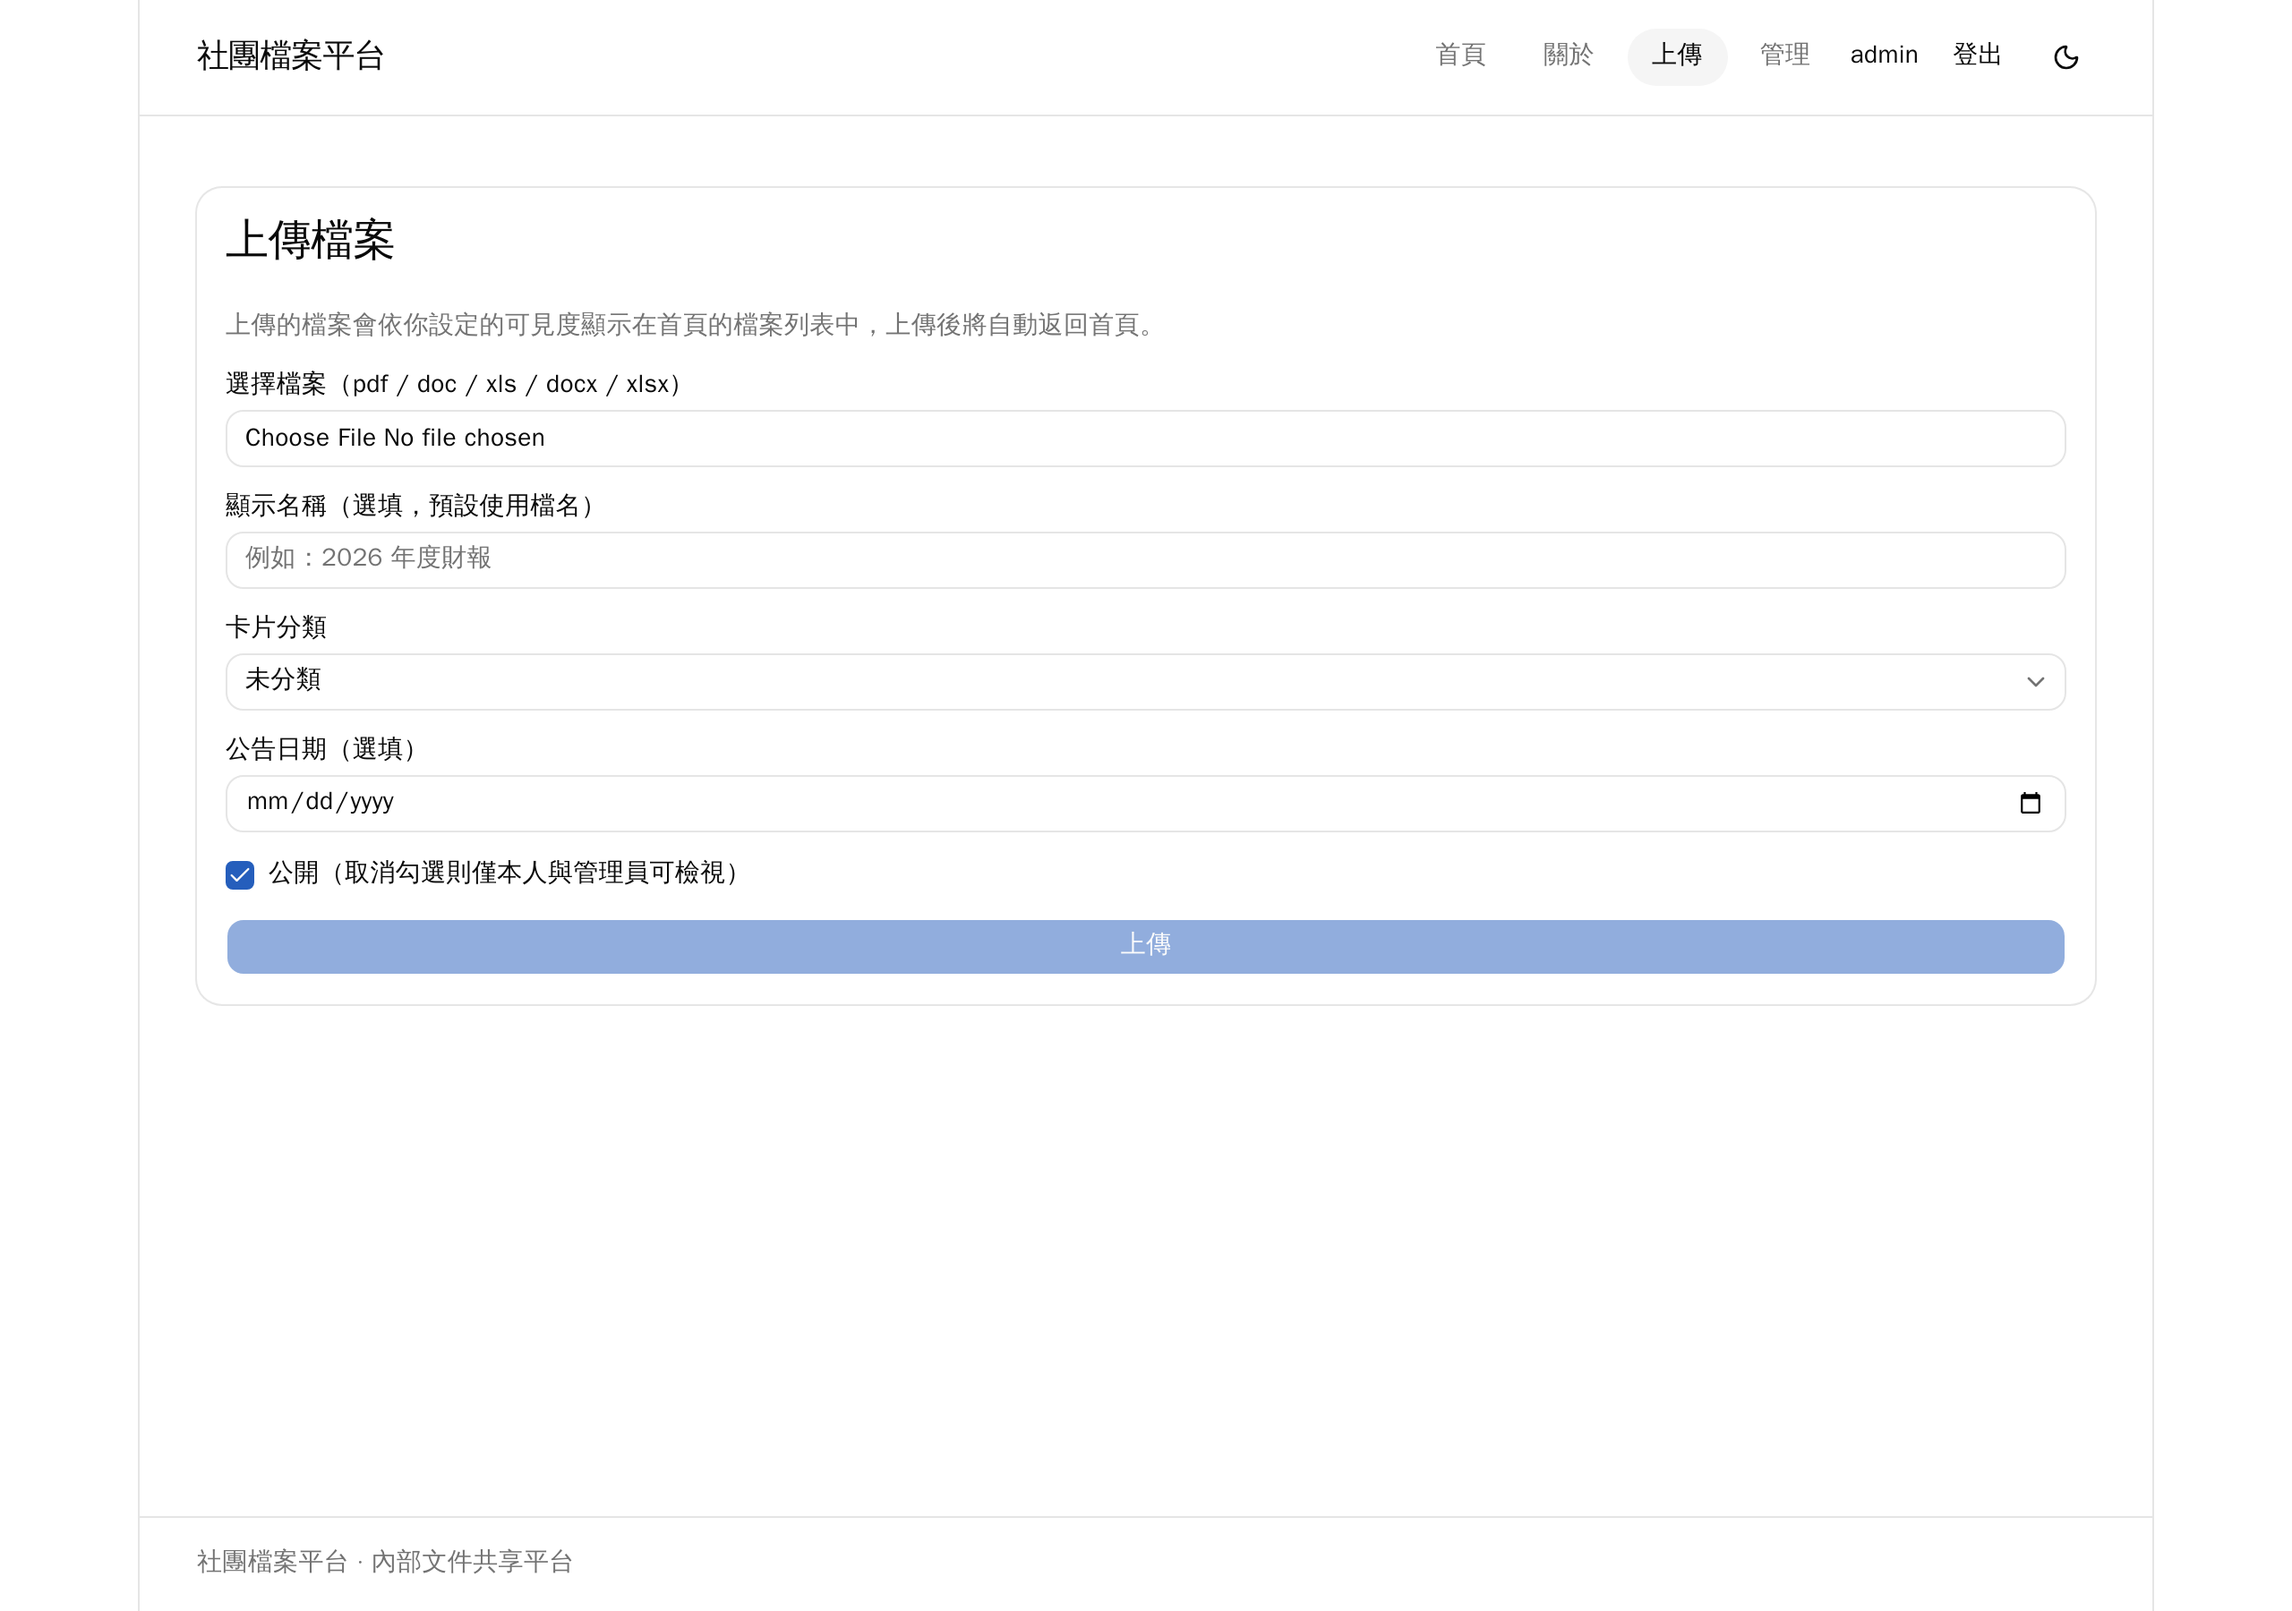
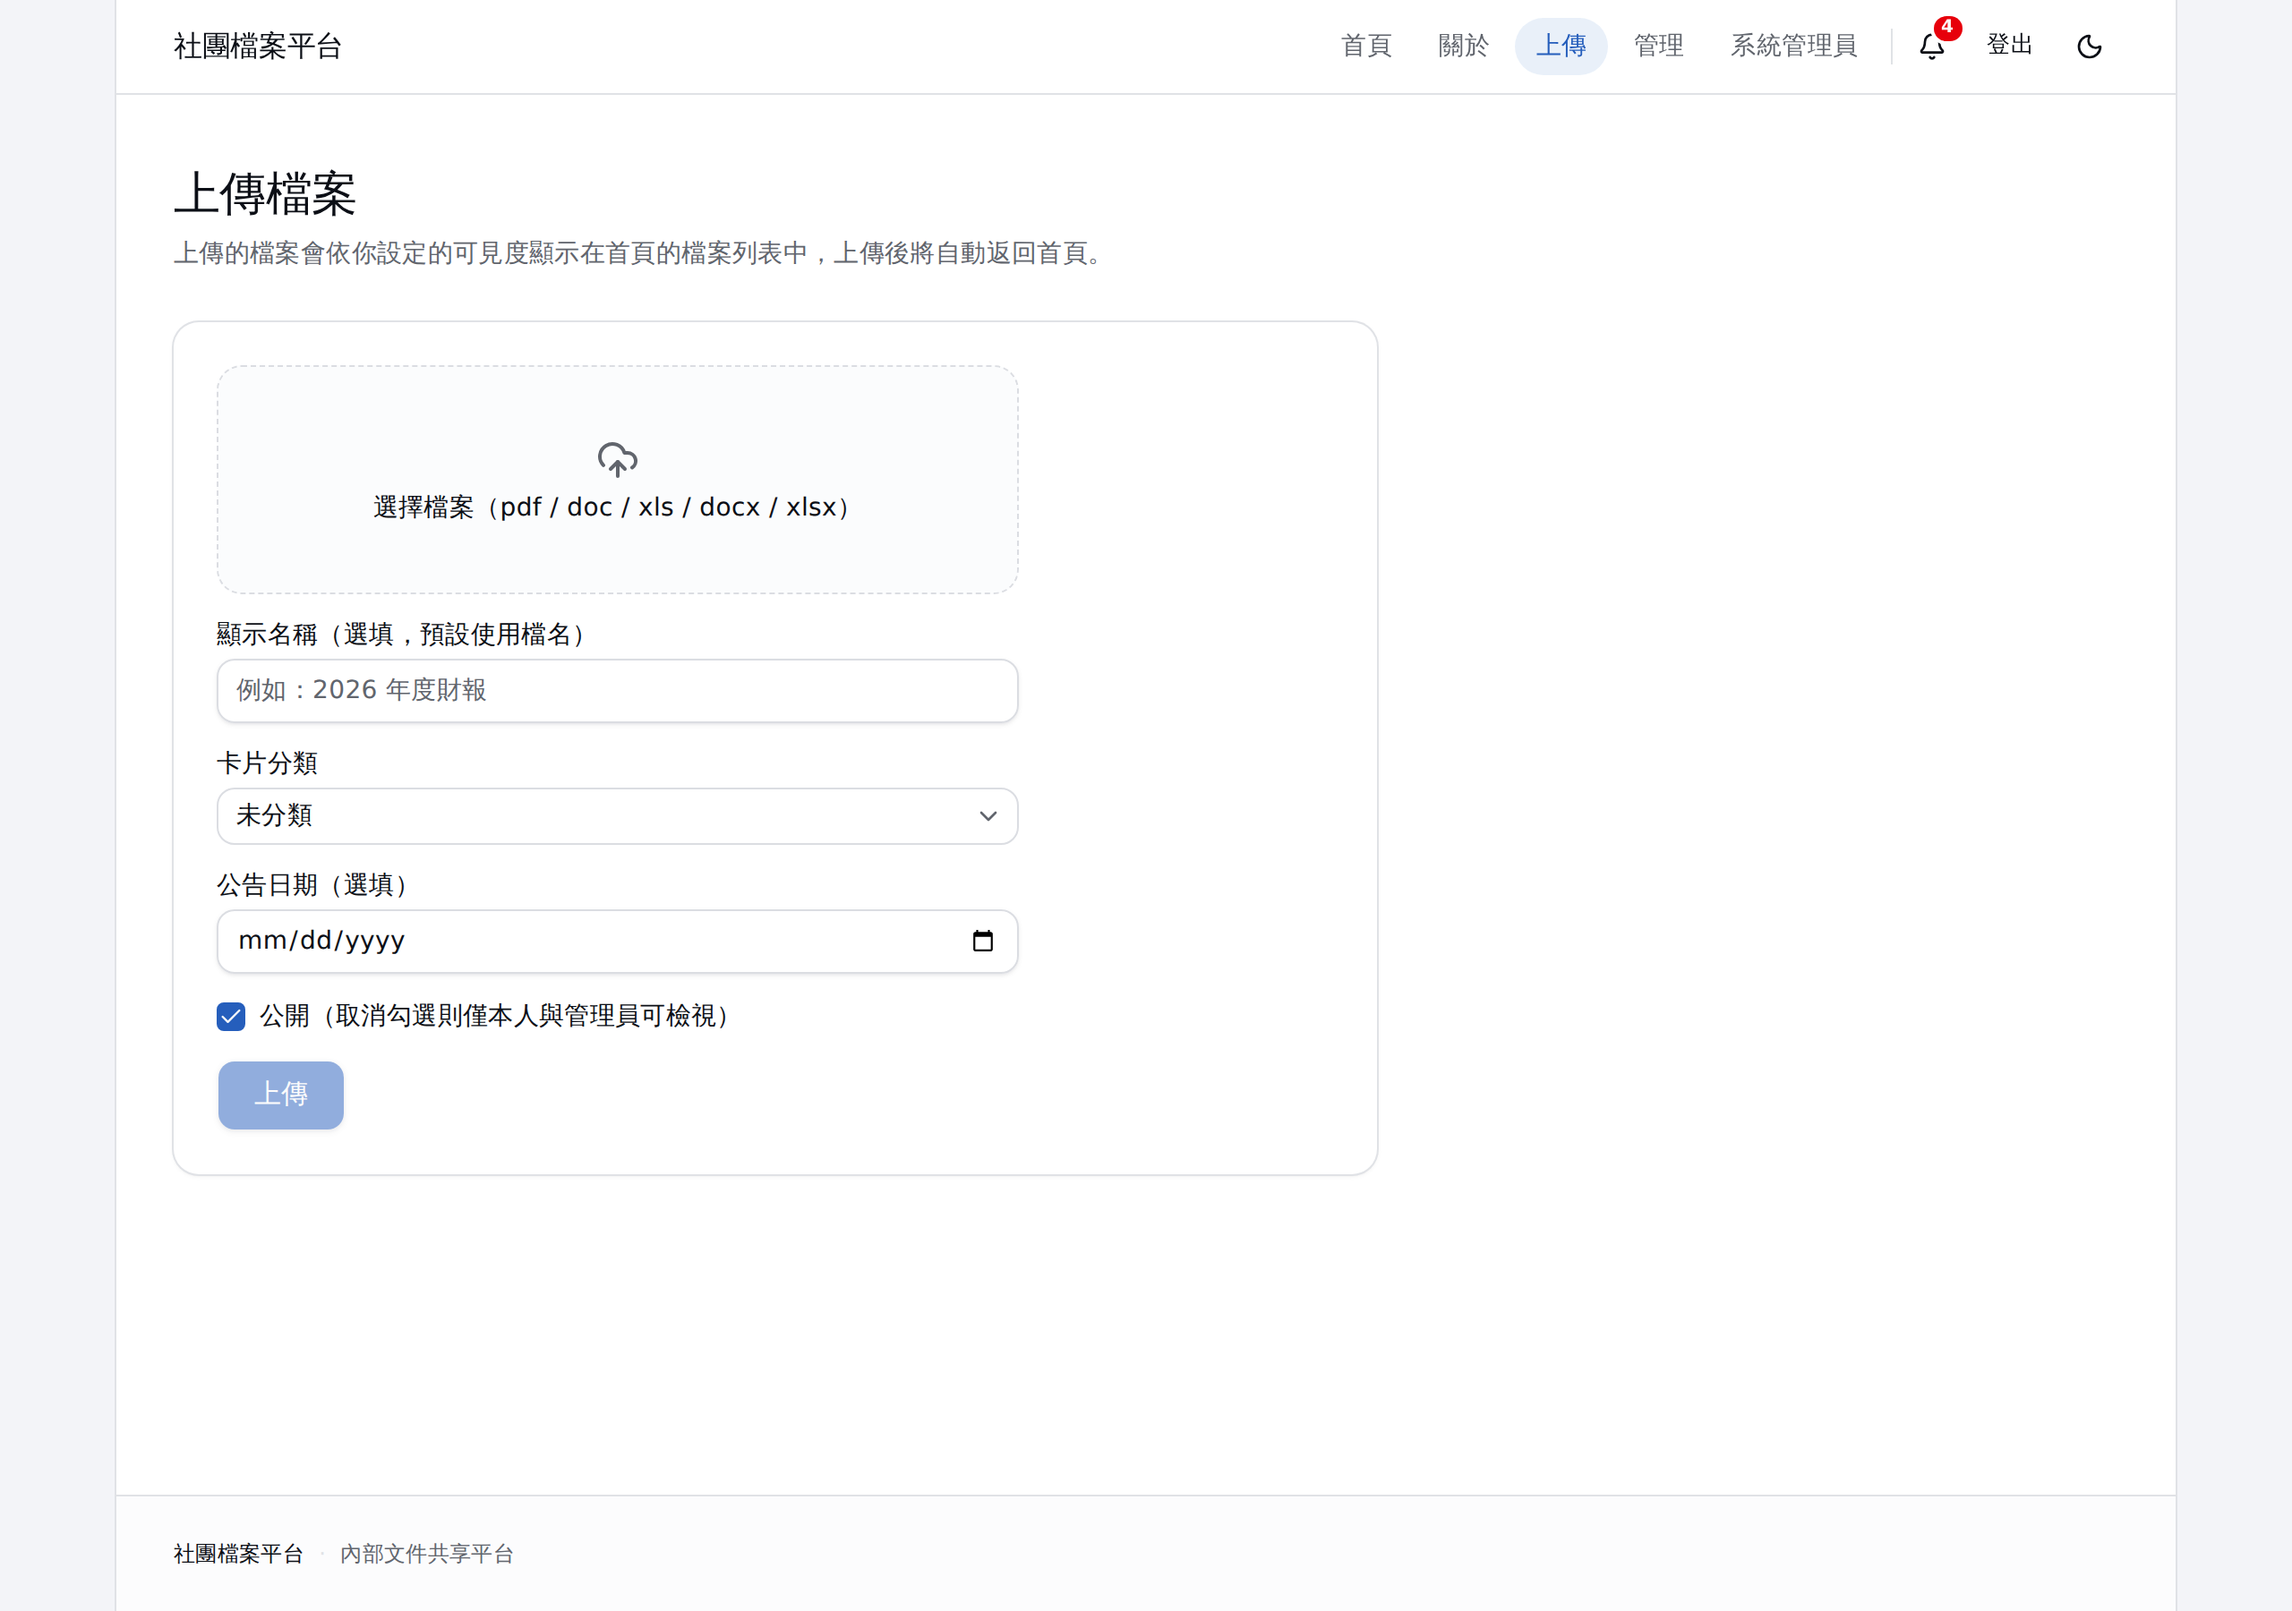
更新 README 補上深色模式與介面設計說明，並重拍全站截圖 (#97)
README 的功能說明停在 PR #91，之後 #93 的全站視覺改版沒有反映進來：深色／明亮模式切換
（早在 theme toggle 上線時就有）從未被寫進「專案特點」，#93 帶進來的設計 token、骨架與空
狀態、toast 提示同樣沒有著墨，技術棧也漏了 sonner 與 tw-animate-css。

docs/screenshots/ 的圖全部拍於 #93 改版之前，畫面已與現況不符；通知中心那格更是從加入表格
起就只有「待補圖」的文字佔位，`/admin` 的「首頁特色」分頁（#90）也一直沒有截圖。這次以乾淨
的展示資料重拍 14 張（含新增的 admin-highlights 與 notifications），維持原本 2560×1800 的
規格。

順帶修正「頁面與權限」的兩處描述：檔案的公開／私密切換、版本與刪除實際上是在首頁的檔案列表
操作，/upload 只負責上傳。

diff --git a/README.md b/README.md
@@ -21,10 +21,8 @@
 | ![管理後台站台設定](docs/screenshots/admin-site-settings.png) | ![管理後台 LDAP 設定](docs/screenshots/admin-ldap-settings.png) |
 | **管理後台－Email SMTP 設定**                          | **個人資料頁**                                           |
 | ![管理後台 Email SMTP 設定](docs/screenshots/admin-smtp-settings.png) | ![個人資料頁](docs/screenshots/profile.png) |
-| **通知中心**                                           |                                                          |
-| （待補圖：`docs/screenshots/notifications.png`）        |                                                          |
-
-> 通知中心的截圖待補（需要帳號實際收到通知才拍得出未讀徽章與「全部標記已讀」）；補上 png 到 `docs/screenshots/` 後改成圖片連結即可。
+| **管理後台－首頁特色**                                 | **通知中心**                                             |
+| ![管理後台首頁特色](docs/screenshots/admin-highlights.png) | ![通知中心](docs/screenshots/notifications.png)       |
 
 ## 🌟 專案特點
 
@@ -42,6 +40,8 @@
 *   **Email SMTP 設定**：寄送重設密碼信、上傳通知信所使用的 SMTP 伺服器、帳密等設定，可直接在管理後台網頁上設定，無需改動伺服器環境變數；未啟用或未設定時，信件內容僅會寫入後端日誌，方便本機開發測試。
 *   **站台外觀設定**：站台名稱、瀏覽器分頁標題、首頁歡迎卡片的主標題與副標說明文字，以及網站圖示（favicon）與首頁歡迎圖片，皆可直接在管理後台的「站台設定」中修改；圖片支援 SVG / PNG / JPG / GIF / WebP / ICO 上傳，未設定時使用內建預設值。
 *   **首頁特色介紹**：首頁歡迎區塊下方的特色卡片（圖示、標題、說明文字、排序、是否顯示）可在管理後台的「首頁特色」中自行新增、編輯與刪除；圖示由下拉選單挑選，卡片張數不固定，首頁版面會依張數自動調整。
+*   **深色／明亮模式**：右上角可一鍵切換深色與明亮外觀，選擇會記在瀏覽器本機（`localStorage` 的 `theme`）；第一次造訪時跟隨作業系統的深色偏好（`prefers-color-scheme`），且在頁面首次繪製之前就套用主題，深色使用者不會先看到一片白再跳暗。
+*   **一致的介面設計**：全站的色彩、圓角與間距統一由設計 token 定義（明亮／深色各一套，見 `frontend/src/index.css`），資料載入中顯示骨架（skeleton）佔位、沒有資料時顯示統一的空狀態說明，操作成功或失敗則以畫面右下角的浮動訊息（toast）提示；版面與字級會依螢幕寬度自動調整。
 *   **檔案儲存**：檔案實體存放於伺服器本機檔案系統，資料庫僅儲存檔案 metadata。
 *   **檔案大小限制**：上傳檔案設有單檔大小上限，避免磁碟空間被過大檔案佔滿。上限可由管理員在管理後台的「站台設定」中調整（1 到 512 MB），調整後立即生效，上傳頁面也會同步顯示目前上限並在選檔當下就擋下過大的檔案。
 *   **操作稽核紀錄（Audit Log）**：記錄管理員的高權限操作（如建立/停用/刪除使用者帳號、刪除他人檔案等），包含操作者、時間、對象與動作內容，以利事後追溯。
@@ -53,19 +53,20 @@
 *   **後端 (Backend)**: Python / FastAPI
 *   **前端 (Frontend)**: React + TypeScript + Vite，UI 使用 Tailwind CSS v4 + shadcn（`base-nova`
     style，元件基底為 `@base-ui/react`）+ `lucide-react` 圖示，樣式組合用
-    `class-variance-authority` / `tailwind-merge`
+    `class-variance-authority` / `tailwind-merge`，浮動訊息（toast）用 `sonner`、動畫用
+    `tw-animate-css`；明亮／深色兩套設計 token 定義在 `frontend/src/index.css`
 *   **資料庫 (Database)**: PostgreSQL
 
 ## 🗺 頁面與權限 (Pages)
 
 | 路徑                | 頁面                                       | 需要登入                  |
 | ------------------- | ------------------------------------------ | ------------------------- |
-| `/`                 | 公開檔案牆（檔案卡片與連結卡片）           | 否，訪客可瀏覽下載公開檔案 |
+| `/`                 | 公開檔案牆（檔案卡片與連結卡片）；登入後可在此管理自己的檔案（公開／私密切換、版本、刪除） | 否，訪客可瀏覽下載公開檔案 |
 | `/about`            | 關於本站                                   | 否                        |
 | `/login`            | 登入                                       | 否                        |
 | `/forgot-password`  | 忘記密碼（寄送重設連結）                   | 否                        |
 | `/reset-password`   | 以 Email 連結重設密碼                      | 否                        |
-| `/upload`           | 上傳檔案與管理自己的檔案                   | 是                        |
+| `/upload`           | 上傳檔案（可設定顯示名稱、卡片分類、公告日期與可見度） | 是                        |
 | `/profile`          | 個人資料（姓名／Email／密碼／通知偏好）    | 是                        |
 | `/admin`            | 管理後台                                   | 是，且需 admin 角色       |
 
